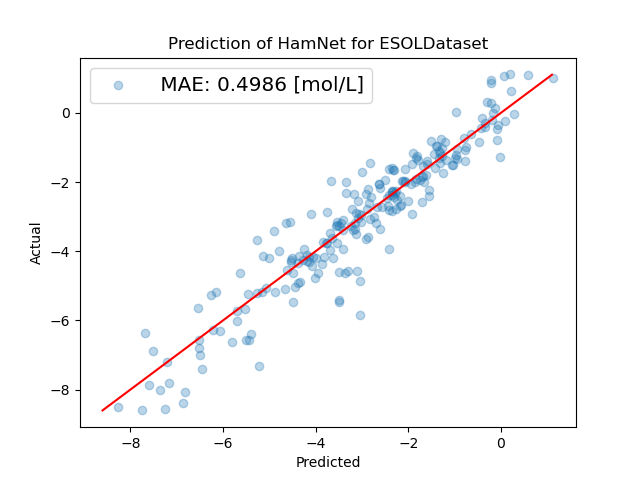
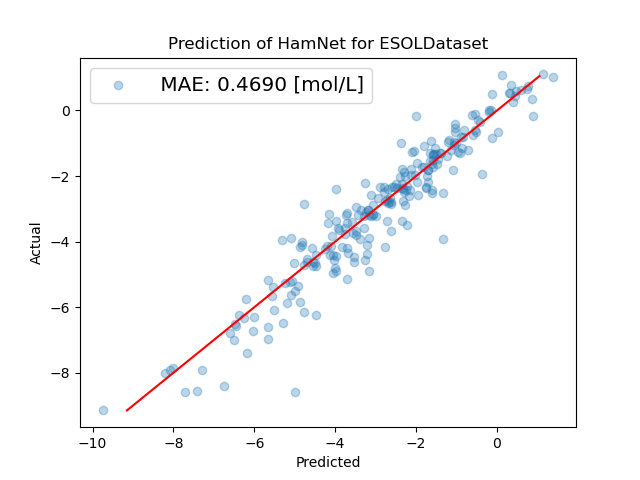
Switch to `HyperParameter` class for training scripts.

diff --git a/training/train_moleculenet.py b/training/train_moleculenet.py
@@ -3,24 +3,24 @@ import numpy as np
 import argparse
 import os
 import time
-
+from tensorflow_addons import optimizers
 from datetime import timedelta
 from kgcnn.data.moleculenet import MoleculeNetDataset
-from kgcnn.selection.models import ModelSelection
-from kgcnn.selection.data import DatasetSelection
-from kgcnn.selection.hyper import HyperSelection
-from tensorflow_addons import optimizers
-from kgcnn.utils import learning
-from kgcnn.utils.loss import ScaledMeanAbsoluteError, ScaledRootMeanSquaredError
+import kgcnn.training.schedule
+import kgcnn.training.scheduler
+from kgcnn.metrics.metrics import ScaledMeanAbsoluteError, ScaledRootMeanSquaredError
 from sklearn.model_selection import KFold
 from sklearn.preprocessing import StandardScaler
 from kgcnn.utils.plots import plot_train_test_loss, plot_predict_true
+from kgcnn.utils.models import get_model_class
+from kgcnn.data.serial import deserialize as deserialize_dataset
+from kgcnn.hyper.hyper import HyperParameter
 
 # Input arguments from command line with default values from example.
 # From command line, one can specify the model, dataset and the hyperparameter which contain all configuration
 # for training and model setup.
 parser = argparse.ArgumentParser(description='Train a GNN on a Molecule dataset.')
-parser.add_argument("--model", required=False, help="Graph model to train.", default="Schnet")
+parser.add_argument("--model", required=False, help="Graph model to train.", default="GIN")
 parser.add_argument("--dataset", required=False, help="Name of the dataset or leave empty for custom dataset.",
                     default="ESOLDataset")
 parser.add_argument("--hyper", required=False, help="Filepath to hyper-parameter config file (.py or .json).",
@@ -38,30 +38,25 @@ make_function = args["make"]
 
 # A class `HyperSelection` is used to expose and verify hyperparameter.
 # The hyperparameter stored as a dictionary with section 'model', 'data' and 'training'.
-hyper = HyperSelection(hyper_path, model_name=model_name, dataset_name=dataset_name)
+hyper = HyperParameter(hyper_path, model_name=model_name, model_generation=make_function, dataset_name=dataset_name)
 
 # With `ModelSelection` a model definition from a module in kgcnn.literature can be loaded.
 # At the moment there is a `make_model()` function in each module that sets up a keras model within the functional API
 # of tensorflow-keras.
-model_selection = ModelSelection(model_name, make_function)
-make_model = model_selection.make_model()
-
-# The `DatasetSelection` class is used to create a `MemoryGraphDataset` from config in hyperparameter.
-# The class also has functionality to check the dataset for properties or apply a series of methods on the dataset.
-data_selection = DatasetSelection(dataset_name)
+make_model = get_model_class(model_name, make_function)
 
 # Loading a specific per-defined dataset from a module in kgcnn.data.datasets.
 # Those sub-classed classes are named after the dataset like e.g. `ESOLDataset`
-dataset = data_selection.dataset(**hyper.dataset())
+dataset = deserialize_dataset(hyper["data"]["dataset"])
 
 # Check if dataset has the required properties for model input. This includes a quick shape comparison.
 # The name of the keras `Input` layer of the model is directly connected to property of the dataset.
 # Example 'edge_indices' or 'node_attributes'. This couples the keras model to the dataset.
-data_selection.assert_valid_model_input(dataset, hyper.inputs())
+dataset.assert_valid_model_input(hyper["model"]["config"]["inputs"])
 
 # Filter the dataset for invalid graphs. At the moment invalid graphs are graphs which do not have the property set,
 # which is required by the model's input layers, or if a tensor-like property has zero length.
-dataset.clean(hyper.inputs())
+dataset.clean(hyper["model"]["config"]["inputs"])
 data_length = len(dataset)  # Length of the cleaned dataset.
 
 # For `MoleculeNetDataset`, always train on `graph_labels`.
@@ -72,26 +67,26 @@ if len(labels.shape) <= 1:
 
 # Cross-validation via random KFold split form `sklearn.model_selection`. Other validation schemes could include
 # stratified k-fold cross-validation for `MoleculeNetDataset` but is not implemented yet.
-kf = KFold(**hyper.cross_validation()["config"])
+kf = KFold(**hyper["training"]["cross_validation"]["config"])
 
 # Iterate over the cross-validation splits.
 # Indices for train-test splits are stored in 'test_indices_list'.
-history_list, test_indices_list, model, hist, xtest, ytest, scaler = [], [], None, None, None, None, None
+history_list, test_indices_list, model, hist, x_test, y_test, scaler = [], [], None, None, None, None, None
 for train_index, test_index in kf.split(X=np.arange(data_length)[:, None]):
 
     # First select training and test graphs or molecules from indices, then convert them into tensorflow tensor
     # representation. Which property of the dataset and whether the tensor will be ragged is retrieved from the
     # kwargs of the keras `Input` layers ('name' and 'ragged').
-    xtrain, ytrain = dataset[train_index].tensor(hyper.inputs()), labels[train_index]
-    xtest, ytest = dataset[test_index].tensor(hyper.inputs()), labels[test_index]
+    x_train, y_train = dataset[train_index].tensor(hyper["model"]["config"]["inputs"]), labels[train_index]
+    x_test, y_test = dataset[test_index].tensor(hyper["model"]["config"]["inputs"]), labels[test_index]
 
     # Normalize training and test targets via a sklearn `StandardScaler`. No other scaler are used at the moment.
     # Scaler is applied to target if 'scaler' appears in hyperparameter. Only use for regression.
-    if hyper.use_scaler():
+    if "scaler" in hyper["training"]:
         print("Using StandardScaler.")
-        scaler = StandardScaler(**hyper.scaler()["config"])
-        ytrain = scaler.fit_transform(ytrain)
-        ytest = scaler.transform(ytest)
+        scaler = StandardScaler(**hyper["training"]["scaler"]["config"])
+        y_train = scaler.fit_transform(y_train)
+        y_test = scaler.transform(y_test)
 
         # If scaler was used we add rescaled standard metrics to compile, since otherwise the keras history will not
         # directly log the original target values, but the scaled ones.
@@ -107,7 +102,7 @@ for train_index, test_index in kf.split(X=np.arange(data_length)[:, None]):
 
     # Make the model for current split using model kwargs from hyperparameter.
     # They are always updated on top of the models default kwargs.
-    model = make_model(**hyper.make_model())
+    model = make_model(**hyper["model"]["config"])
 
     # Compile model with optimizer and loss from hyperparameter.
     # The metrics from this script is added to the hyperparameter entry for metrics.
@@ -116,8 +111,8 @@ for train_index, test_index in kf.split(X=np.arange(data_length)[:, None]):
 
     # Run keras model-fit and take time for training.
     start = time.process_time()
-    hist = model.fit(xtrain, ytrain,
-                     validation_data=(xtest, ytest),
+    hist = model.fit(x_train, y_train,
+                     validation_data=(x_test, y_test),
                      **hyper.fit()
                      )
     stop = time.process_time()
@@ -129,26 +124,27 @@ for train_index, test_index in kf.split(X=np.arange(data_length)[:, None]):
 
 # Make output directory. This can further be adapted in hyperparameter.
 filepath = hyper.results_file_path()
-postfix_file = hyper.postfix_file()
+postfix_file = hyper["info"]["postfix_file"]
 
 # Plot training- and test-loss vs epochs for all splits.
+data_unit = hyper["data"]["data_unit"]
 plot_train_test_loss(history_list, loss_name=None, val_loss_name=None,
-                     model_name=model_name, data_unit=hyper.data_unit(), dataset_name=dataset_name,
+                     model_name=model_name, data_unit=data_unit, dataset_name=dataset_name,
                      filepath=filepath, file_name="loss" + postfix_file + ".png")
 
 # Plot prediction for the last split.
-predicted_y = model.predict(xtest)
-true_y = ytest
+predicted_y = model.predict(x_test)
+true_y = y_test
 
 # Predictions must be rescaled to original values.
-if hyper.use_scaler():
+if scaler:
     predicted_y = scaler.inverse_transform(predicted_y)
     true_y = scaler.inverse_transform(true_y)
 
 # Plotting the prediction vs. true test targets for last split. Note for classification this is also done but
 # can be ignored.
 plot_predict_true(predicted_y, true_y,
-                  filepath=filepath, data_unit=hyper.data_unit(),
+                  filepath=filepath, data_unit=data_unit,
                   model_name=model_name, dataset_name=dataset_name,
                   file_name="predict" + postfix_file + ".png")
 

diff --git a/training/hyper/hyper_esol.py b/training/hyper/hyper_esol.py
@@ -1,32 +1,36 @@
 hyper = {
     "HamNet": {
         "model": {
-            "name": "HamNet",
-            "inputs": [
-                {"shape": [None, 41], "name": "node_attributes", "dtype": "float32", "ragged": True},
-                {"shape": [None, 11], "name": "edge_attributes", "dtype": "float32", "ragged": True},
-                {"shape": [None, 2], "name": "edge_indices", "dtype": "int64", "ragged": True},
-                {"shape": [None, 3], "name": "node_coordinates", "dtype": "float32", "ragged": True}
-            ],
-            "input_embedding": {"node": {"input_dim": 95, "output_dim": 64},
-                                "edge": {"input_dim": 5, "output_dim": 64}},
-            "message_kwargs": {"units": 200,
-                               "units_edge": 200,
-                               "rate": 0.5, "use_dropout": True},
-            "fingerprint_kwargs": {"units": 200,
-                                   "units_attend": 200,
-                                   "rate": 0.5, "use_dropout": True,
-                                   "depth": 3},
-            "gru_kwargs": {"units": 200},
-            "verbose": 10, "depth": 3,
-            "union_type_node": "gru",
-            "union_type_edge": "None",
-            "given_coordinates": True,
-            'output_embedding': 'graph',
-            'output_mlp': {"use_bias": [True, False], "units": [200, 1],
-                           "activation": ['relu', 'linear'],
-                           "use_dropout": [True,  False],
-                           "rate": [0.5, 0.0]}
+            "class_name": "make_model",
+            "module_name": "kgcnn.literature.HamNet",
+            "config": {
+                "name": "HamNet",
+                "inputs": [
+                    {"shape": [None, 41], "name": "node_attributes", "dtype": "float32", "ragged": True},
+                    {"shape": [None, 11], "name": "edge_attributes", "dtype": "float32", "ragged": True},
+                    {"shape": [None, 2], "name": "edge_indices", "dtype": "int64", "ragged": True},
+                    {"shape": [None, 3], "name": "node_coordinates", "dtype": "float32", "ragged": True}
+                ],
+                "input_embedding": {"node": {"input_dim": 95, "output_dim": 64},
+                                    "edge": {"input_dim": 5, "output_dim": 64}},
+                "message_kwargs": {"units": 200,
+                                   "units_edge": 200,
+                                   "rate": 0.5, "use_dropout": True},
+                "fingerprint_kwargs": {"units": 200,
+                                       "units_attend": 200,
+                                       "rate": 0.5, "use_dropout": True,
+                                       "depth": 3},
+                "gru_kwargs": {"units": 200},
+                "verbose": 10, "depth": 3,
+                "union_type_node": "gru",
+                "union_type_edge": "None",
+                "given_coordinates": True,
+                'output_embedding': 'graph',
+                'output_mlp': {"use_bias": [True, False], "units": [200, 1],
+                               "activation": ['relu', 'linear'],
+                               "use_dropout": [True,  False],
+                               "rate": [0.5, 0.0]}
+            }
         },
         "training": {
             "fit": {
@@ -41,17 +45,21 @@ hyper = {
             "cross_validation": {"class_name": "KFold",
                                  "config": {"n_splits": 5, "random_state": None, "shuffle": True}},
             "scaler": {"class_name": "StandardScaler",
-                       "config": {"with_std": True, "with_mean": True, "copy": True}}
+                       "config": {"with_std": True, "with_mean": True, "copy": True}},
+            "multi_target_indices": None
         },
         "data": {
-            "dataset": {"class_name": "ESOLDataset",
-                        "config": {},
-                        "methods": [{"set_attributes": {}}]
+            "dataset": {
+                "class_name": "ESOLDataset",
+                "module_name": "kgcnn.data.datasets.ESOLDataset",
+                "config": {},
+                "methods": [{"set_attributes": {}}]
             },
             "data_unit": "mol/L"
         },
         "info": {
             "postfix": "",
+            "postfix_file": "",
             "kgcnn_version": "2.0.3"
         }
     },
